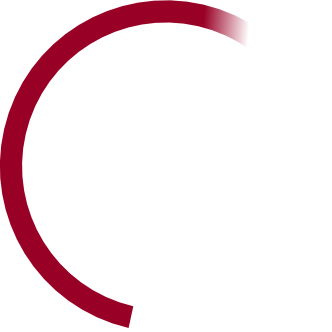
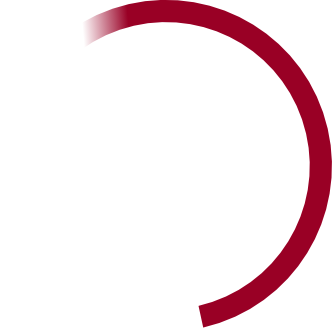
Reorganized pbxproject Added some new images Fixed a minor bug

Changed region(s): [[0.512, 0.0, 1.0, 0.994], [0.0, 0.0, 0.4819, 0.994]]

diff --git a/PitchShiftApp/MainViewController.m b/PitchShiftApp/MainViewController.m
@@ -414,13 +414,13 @@
     
      isAnimatingCircles = true;
     
-    [self startSpinAndScaleWithImage:ring options:UIViewAnimationOptionCurveEaseIn duration:0.3 angleIncrement: -M_PI/2.0 andAcumulatedAngle: -M_PI/2.0];
+    [self startSpinAndScaleWithImage:ring options:UIViewAnimationOptionCurveEaseIn duration:0.3 angleIncrement: M_PI/2.0 andAcumulatedAngle: M_PI/2.0];
     
-    [self startSpinAndScaleWithImage:topCircle options:UIViewAnimationOptionCurveEaseIn duration:0.4 angleIncrement: M_PI/2.0 andAcumulatedAngle: M_PI/2.0];
+    [self startSpinAndScaleWithImage:topCircle options:UIViewAnimationOptionCurveEaseIn duration:0.4 angleIncrement: -M_PI/2.0 andAcumulatedAngle: -M_PI/2.0];
     
-    [self startSpinAndScaleWithImage:middleCircle options:UIViewAnimationOptionCurveEaseIn duration:0.5 angleIncrement: -M_PI/2.0 andAcumulatedAngle: -M_PI/2.0];
+    [self startSpinAndScaleWithImage:middleCircle options:UIViewAnimationOptionCurveEaseIn duration:0.5 angleIncrement: M_PI/2.0 andAcumulatedAngle: M_PI/2.0];
     
-    [self startSpinAndScaleWithImage:bottomCircle options:UIViewAnimationOptionCurveEaseIn duration:0.6 angleIncrement: M_PI/2.0 andAcumulatedAngle: M_PI/2.0];
+    [self startSpinAndScaleWithImage:bottomCircle options:UIViewAnimationOptionCurveEaseIn duration:0.6 angleIncrement: -M_PI/2.0 andAcumulatedAngle: -M_PI/2.0];
     
 }
 
@@ -662,7 +662,7 @@
                [progressBar setHidden:NO];
         }
 
-        ring.transform = CGAffineTransformRotate(ring.transform, -1.0);
+        ring.transform = CGAffineTransformRotate(ring.transform, 0.1);
         
         [UIView commitAnimations];
         

diff --git a/PitchShiftApp/TracksTableViewCell.h b/PitchShiftApp/TracksTableViewCell.h
@@ -14,10 +14,15 @@
 #import "SoundManager.h"
 
 @interface TracksTableViewCell : UITableViewCell{
+    
     BOOL isPlaying;
-    SoundManager *soundManager;
+    
     NSTimer *playerTimer;
+    
+    SoundManager *soundManager;
+    
 }
+
 @property (nonatomic,retain) IBOutlet UIButton *playButton;
 @property (nonatomic,retain) IBOutlet UIButton *shareButton;
 @property (nonatomic,retain) IBOutlet UIButton *deleteButton;

diff --git a/PitchShiftApp/MainViewController.h b/PitchShiftApp/MainViewController.h
@@ -14,8 +14,6 @@
 #import "SCUI.h"
 #import "SoundManager.h"
 
-//#define GLOBAL_AUDIO_SAMPLE_RATE  32000.0
-
 #define PROGRESS_BAR_FULL_WIDTH 240.0
 #define BOT_CIRCLE_MIN_SIZE 304.0
 #define BOT_CIRCLE_MAX_SIZE 354.0
@@ -94,4 +92,5 @@
 - (void)playSound:(NSString*) outWavName;
 - (void)stopSound;
 - (void)pauseSound;
+
 @end

diff --git a/PitchShiftApp/TracksTableViewController.m b/PitchShiftApp/TracksTableViewController.m
@@ -9,11 +9,8 @@
 #import "TracksTableViewController.h"
 #import "TracksTableViewCell.h"
 
-@interface TracksTableViewController ()
-
-@end
-
 @implementation TracksTableViewController
+
 @synthesize tracksTableView, tracksArray;
 
 - (id)initWithNibName:(NSString *)nibNameOrNil bundle:(NSBundle *)nibBundleOrNil

diff --git a/PitchShiftApp/TracksTableViewCell.m b/PitchShiftApp/TracksTableViewCell.m
@@ -9,6 +9,7 @@
 #import "TracksTableViewCell.h"
 
 @implementation TracksTableViewCell
+
 @synthesize playButton, shareButton, deleteButton, trackNameLabel, tracksController;
 
 - (id)initWithStyle:(UITableViewCellStyle)style reuseIdentifier:(NSString *)reuseIdentifier

diff --git a/PitchShiftApp/SoundManager.h b/PitchShiftApp/SoundManager.h
@@ -11,6 +11,7 @@
 #import <CoreAudio/CoreAudioTypes.h>
 #import <Foundation/Foundation.h>
 
+//#define GLOBAL_AUDIO_SAMPLE_RATE  32000.0
 #define GLOBAL_AUDIO_SAMPLE_RATE  48000.0
 
 @interface SoundManager : NSObject{
